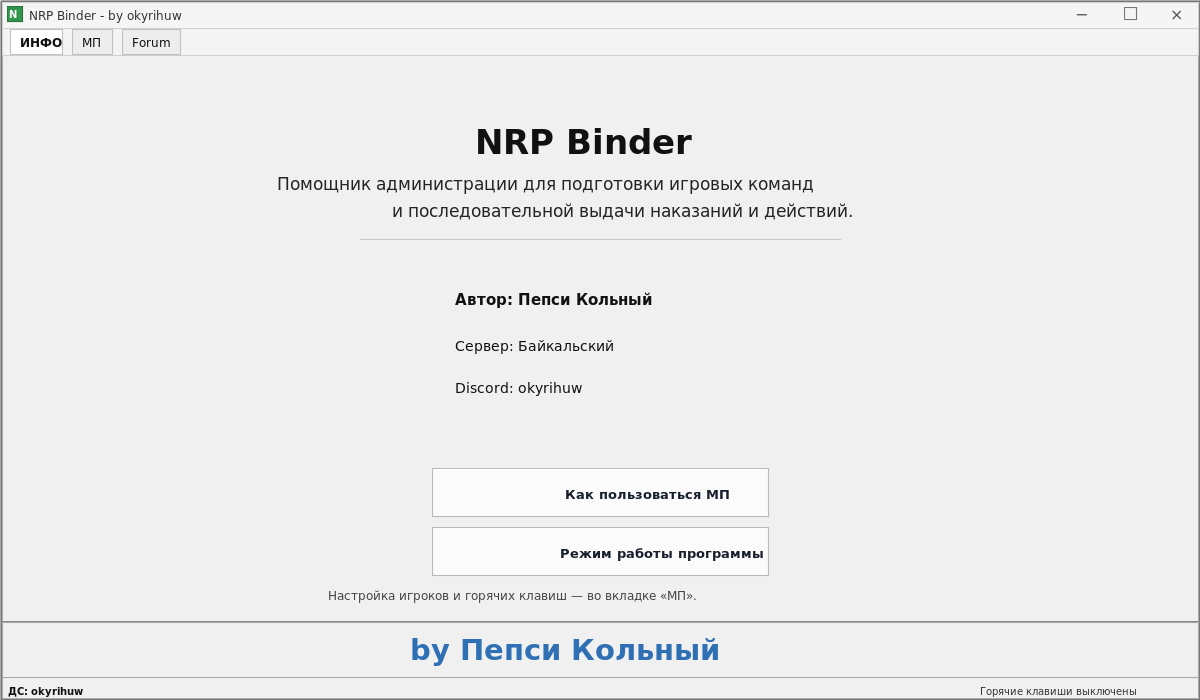
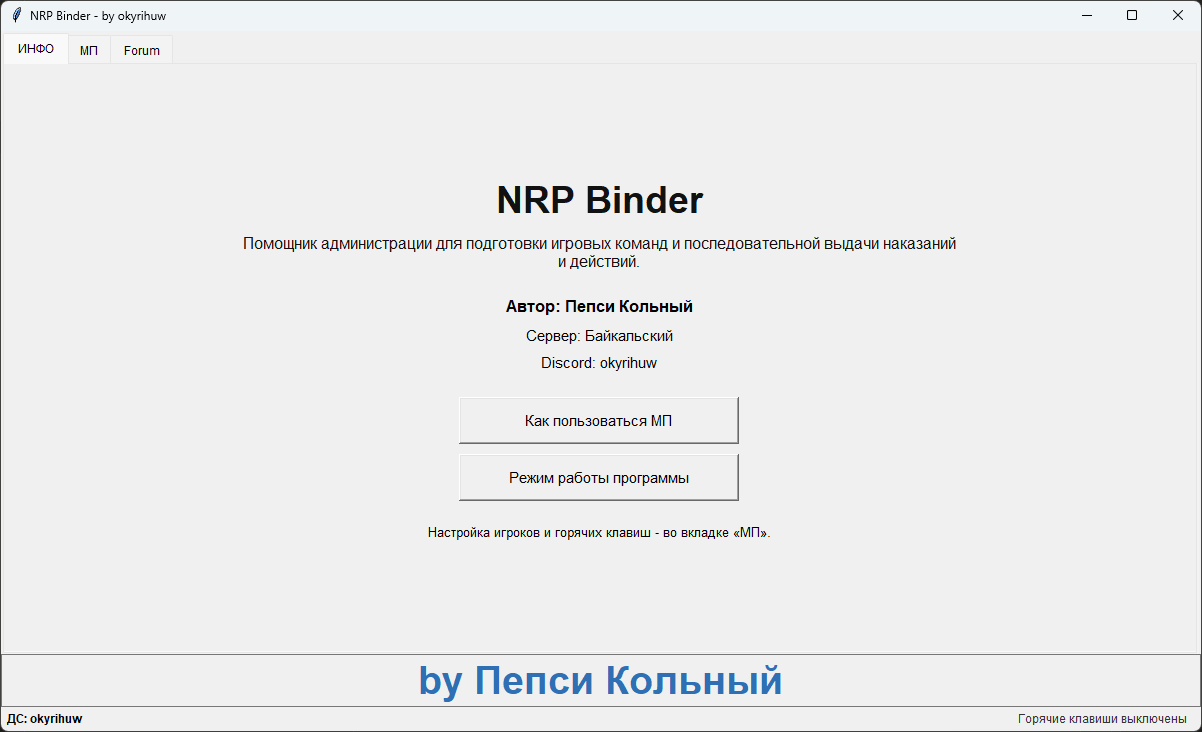
Update INFO screenshot

diff --git a/README.md b/README.md
@@ -11,7 +11,7 @@
 
 ## Интерфейс
 
-Скриншоты МП и Forum сделаны в приложении. Для вкладки ИНФО показан иллюстративный предпросмотр.
+Скриншоты вкладок ИНФО, МП и Forum сделаны в приложении.
 
 <table>
   <tr>
@@ -20,9 +20,9 @@
     <th>Forum</th>
   </tr>
   <tr>
-    <td><a href="docs/screenshots/info.png"><img src="docs/screenshots/info.png" alt="Предпросмотр вкладки ИНФО" width="360"></a></td>
+    <td><a href="docs/screenshots/info.png"><img src="docs/screenshots/info.png" alt="Скриншот вкладки ИНФО" width="360"></a></td>
     <td><a href="docs/screenshots/mp.png"><img src="docs/screenshots/mp.png" alt="Скриншот вкладки МП" width="360"></a></td>
-    <td><a href="docs/screenshots/forum.png"><img src="docs/screenshots/forum.png" alt="Предпросмотр вкладки Forum" width="360"></a></td>
+    <td><a href="docs/screenshots/forum.png"><img src="docs/screenshots/forum.png" alt="Скриншот вкладки Forum" width="360"></a></td>
   </tr>
 </table>
 
